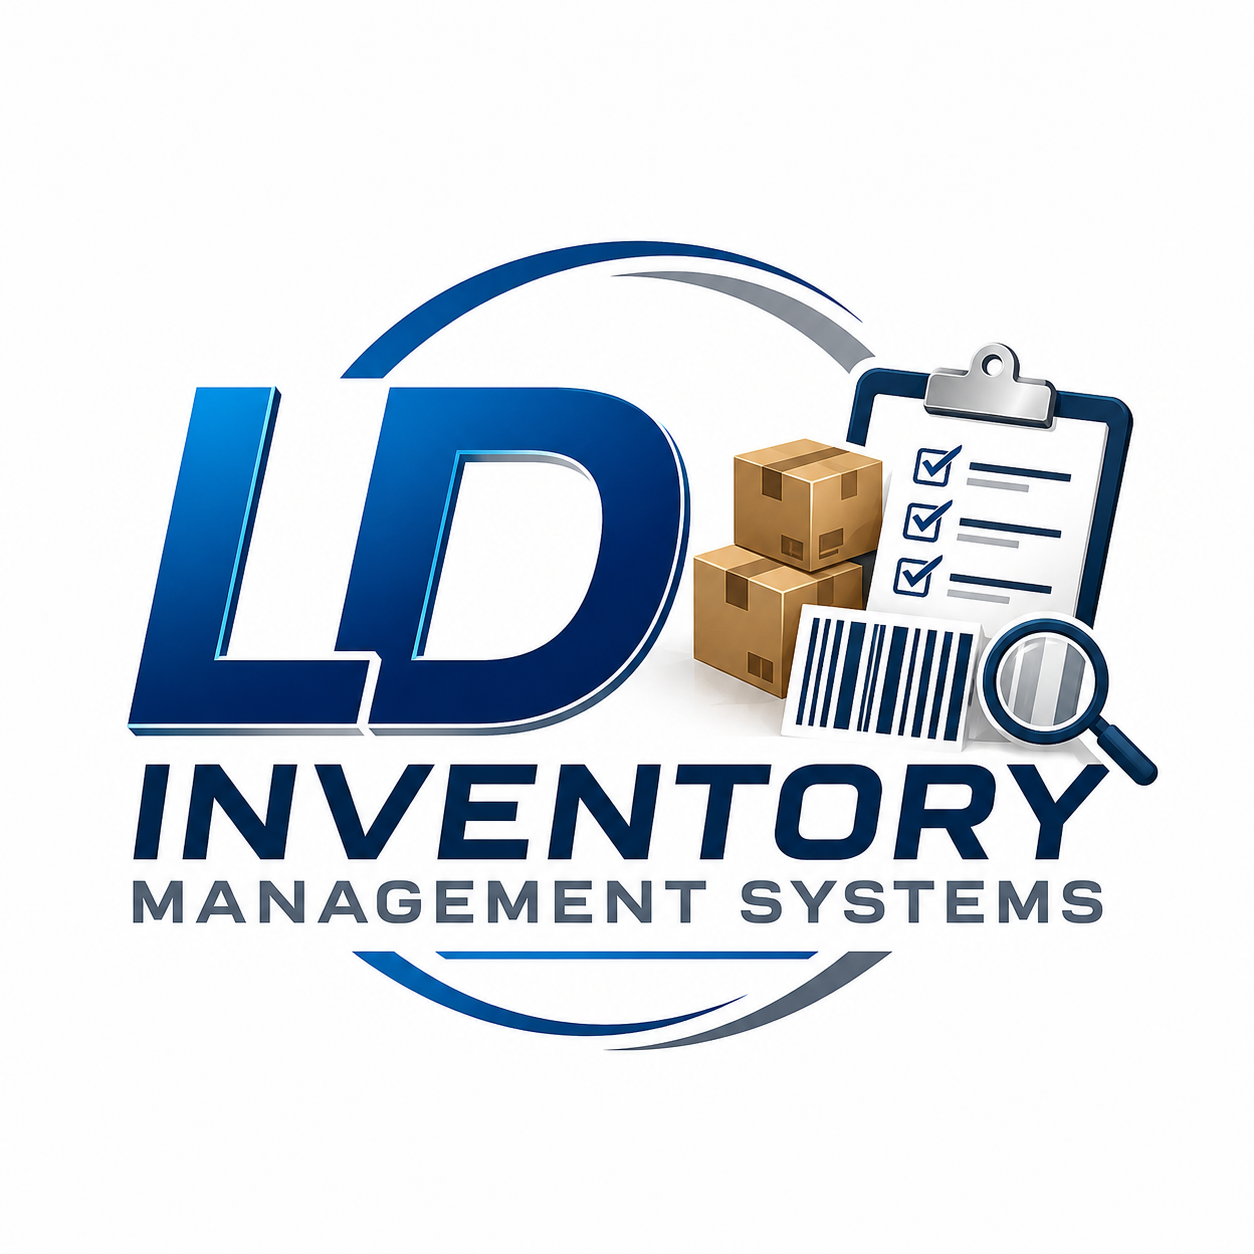
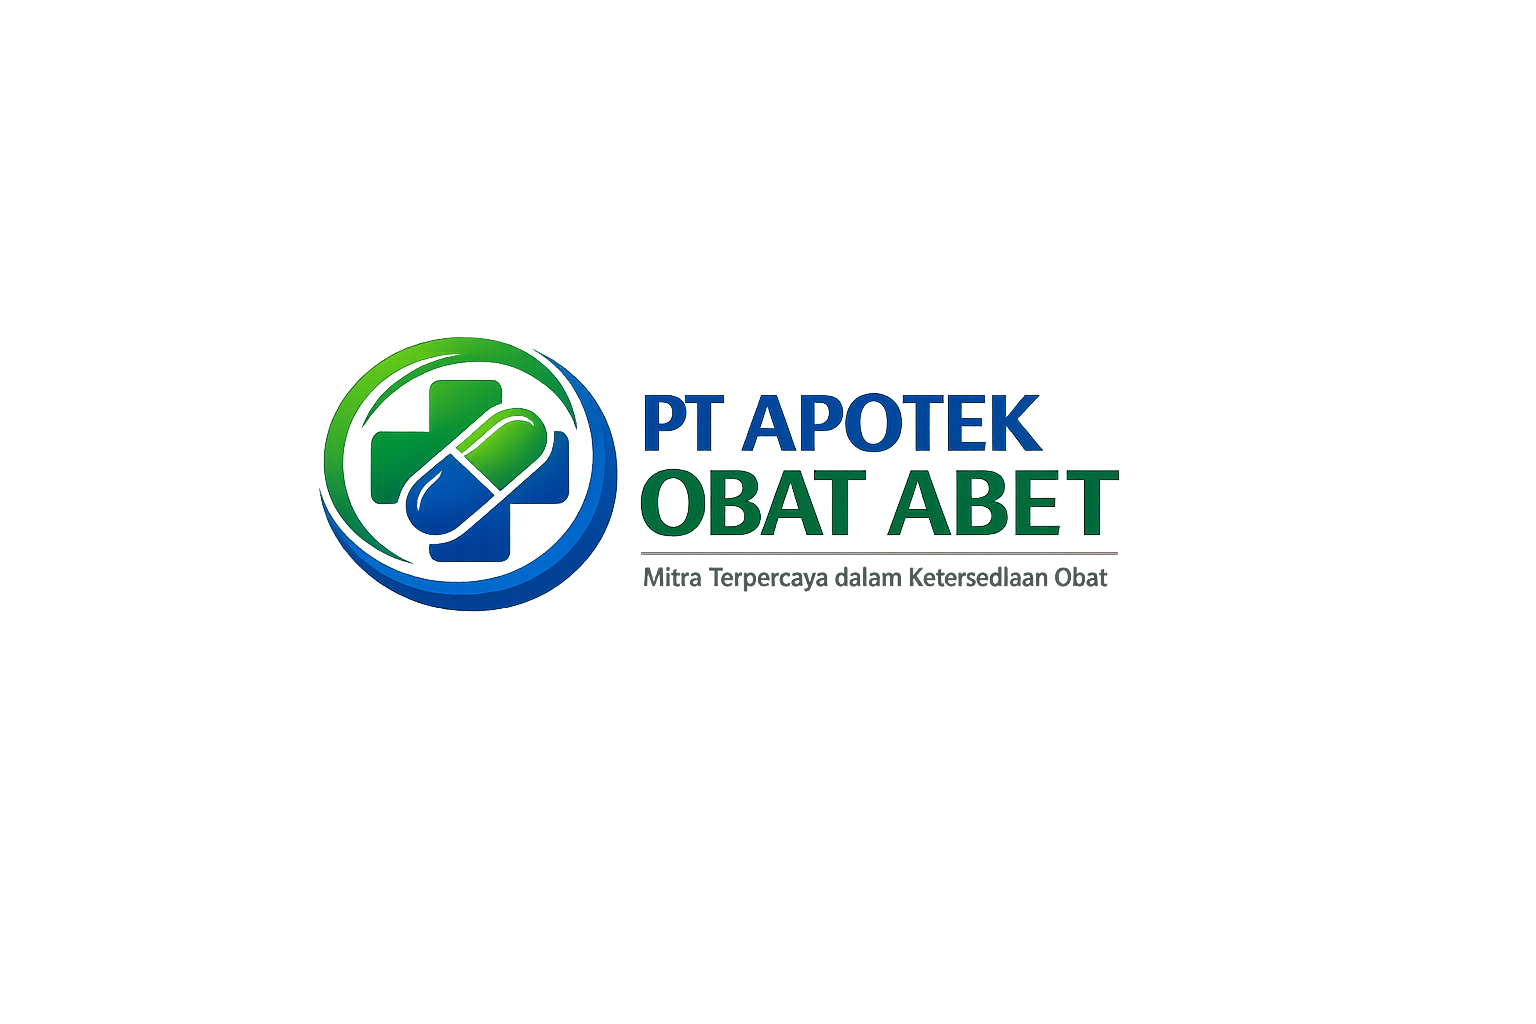
Update register.php

Changed region(s): [[0.0933, 0.1875, 0.933, 0.8438]]

diff --git a/register.php b/register.php
@@ -19,7 +19,10 @@
             display: flex;
             align-items: center;
             justify-content: center;
-            background-color: #f4f6f9;
+            background-image: url("assets/img/molecule-pattern.png");
+            background-repeat: no-repeat;
+            background-size: cover;
+            background-position: center;
         }
 
         .register-container {
@@ -37,10 +40,10 @@
         <div class="card card-success card-outline mb-4">
 
             <div class="card-header text-center">
-                <img src="assets/img/matrai-removebg-preview.png" width="80" height="80" alt="icon">
+                <img src="assets/img/jpg2.png" width="80" height="80" alt="icon">
                 <h3 class="card-title float-none">
 
-                    PT BAZMA COMPANY
+                    PT Apotek Obat Abet
                 </h3>
             </div>
 